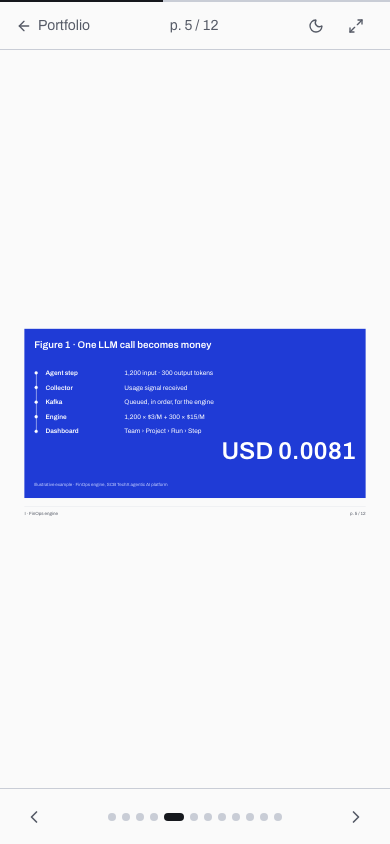
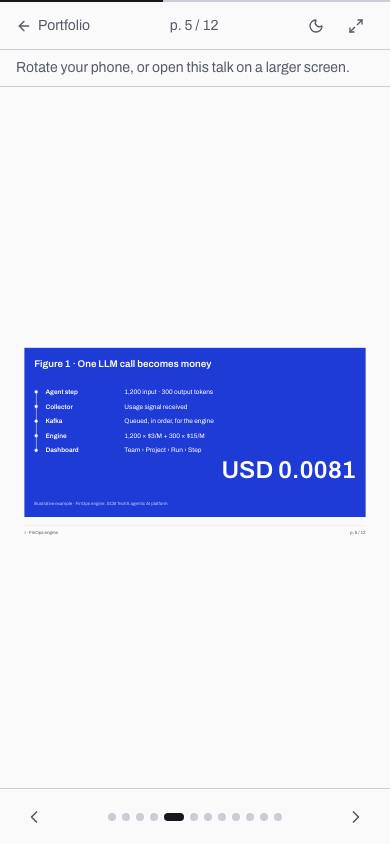
feat: deck coda, reload keeps the slide, phone notice; copy held to the CV
- How I work is a coda: outside chapter III, listed in Contents (p. 11)
- The current slide is written back to ?slide=N
- Portrait phones get a one-line notice to rotate or use a larger screen
- Slide 10: built to replace Excel and MS Forms (no adoption claim)
- Slide 8: legacy gateway, not the vendor name
- Figure 2 (home + deck): migration continuing after handover

Changed region(s): [[0.0615, 0.3697, 0.9538, 0.5545], [0.0615, 0.5237, 0.9538, 0.6161], [0.0308, 0.0616, 0.8923, 0.0924]]

diff --git a/src/components/present/outline.ts b/src/components/present/outline.ts
@@ -1,6 +1,7 @@
 // Slide order for /present. The contents page and every folio derive from it.
 
-export type SlideKind = 'title' | 'contents' | 'divider' | 'content' | 'close';
+// A coda sums up every chapter, so like Close it stands outside them.
+export type SlideKind = 'title' | 'contents' | 'divider' | 'content' | 'coda' | 'close';
 
 interface OutlineEntry {
   id: string;
@@ -21,7 +22,7 @@ export const OUTLINE = [
   { id: 'gateway-fix', kind: 'content', title: 'From an appliance to a service' },
   { id: 'earlier', kind: 'divider', chapter: 'III', title: 'Earlier systems' },
   { id: 'earlier-two-up', kind: 'content', title: 'Two systems I built before FinOps' },
-  { id: 'how-i-work', kind: 'content', title: 'How I work' },
+  { id: 'how-i-work', kind: 'coda', title: 'How I work' },
   { id: 'close', kind: 'close', title: 'Questions?' },
 ] as const satisfies readonly OutlineEntry[];
 
@@ -35,22 +36,23 @@ export function pageOf(id: string): number {
   return index + 1;
 }
 
-// The divider that owns a slide. Title, contents and close sit outside chapters.
+// The divider that owns a slide. Title, contents, coda and close sit outside chapters.
 export function chapterOf(id: string): { numeral: string; title: string } | null {
   const page = pageOf(id);
   for (let i = page - 1; i >= 0; i--) {
     const s: OutlineEntry = OUTLINE[i];
     if (s.kind === 'divider' && s.chapter) return { numeral: s.chapter, title: s.title };
-    if (s.kind === 'title' || s.kind === 'contents' || s.kind === 'close') return null;
+    if (s.kind !== 'divider' && s.kind !== 'content') return null;
   }
   return null;
 }
 
 export function contents(): { numeral: string; title: string; page: number }[] {
-  const chapters = OUTLINE.filter((s: OutlineEntry) => s.kind === 'divider').map((s: OutlineEntry) => ({
-    numeral: s.chapter ?? '',
-    title: s.title,
-    page: pageOf(s.id),
-  }));
-  return [...chapters, { numeral: '', title: 'Close', page: pageOf('close') }];
+  return OUTLINE.filter((s: OutlineEntry) => s.kind === 'divider' || s.kind === 'coda' || s.kind === 'close').map(
+    (s: OutlineEntry) => ({
+      numeral: s.chapter ?? '',
+      title: s.kind === 'close' ? 'Close' : s.title,
+      page: pageOf(s.id),
+    }),
+  );
 }

diff --git a/src/components/present/slides.tsx b/src/components/present/slides.tsx
@@ -70,7 +70,7 @@ function ContentsSlide() {
       <Headline>Contents</Headline>
       <ol className="mt-14 border-t border-ink">
         {contents().map((c) => (
-          <li key={c.title} className="grid grid-cols-12 items-baseline gap-x-6 border-b border-rule py-7">
+          <li key={c.title} className="grid grid-cols-12 items-baseline gap-x-6 border-b border-rule py-6">
             <span className="col-span-1 text-[40px] tabular-nums text-muted">{c.numeral}</span>
             <span className="col-span-9 text-[56px] font-semibold tracking-tight">{c.title}</span>
             <span className="col-span-2 text-right text-[40px] tabular-nums">p. {c.page}</span>
@@ -157,7 +157,7 @@ function GatewayFix() {
       <Headline>From an appliance to a service</Headline>
       <div className="mt-10 grid grid-cols-2 gap-x-16">
         <Column
-          title="The pain with CA Layer7"
+          title="The pain with the legacy gateway"
           items={[
             'Licences, not pods: capacity cost money',
             'A proprietary appliance, no GitOps',
@@ -197,7 +197,7 @@ function EarlierTwoUp() {
           title="Enterprise asset platform"
           meta={`${assets.subtitle} · ${assets.dateRange}`}
           items={[
-            'Replaced Excel and MS Forms with one platform for the asset lifecycle',
+            'Built to replace Excel and MS Forms for the asset lifecycle',
             'Four request lifecycles, approval chains per role and step',
             'Six roles on Azure AD single sign-on; Excel and CSV reports',
           ]}

diff --git a/src/components/Present.tsx b/src/components/Present.tsx
@@ -22,6 +22,12 @@ export default function Present() {
   const [scale, setScale] = useState(1);
   const stageRef = useRef<HTMLDivElement>(null);
 
+  // Keep the place across a reload mid-talk.
+  useEffect(() => {
+    const { pathname, hash } = window.location;
+    window.history.replaceState(window.history.state, '', `${pathname}?slide=${slide + 1}${hash}`);
+  }, [slide]);
+
   const go = useCallback((index: number) => setSlide(Math.max(0, Math.min(TOTAL - 1, index))), []);
   const next = useCallback(() => setSlide((s) => Math.min(TOTAL - 1, s + 1)), []);
   const prev = useCallback(() => setSlide((s) => Math.max(0, s - 1)), []);
@@ -95,6 +101,10 @@ export default function Present() {
           </button>
         </div>
       </header>
+
+      <p className="hidden shrink-0 border-b border-rule px-4 py-2 text-sm text-muted max-sm:portrait:block">
+        Rotate your phone, or open this talk on a larger screen.
+      </p>
 
       {/* Click anywhere on the stage to advance. */}
       <main ref={stageRef} className="relative flex flex-1 cursor-pointer items-center justify-center overflow-hidden" onClick={next}>

diff --git a/src/data/portfolio-data.ts b/src/data/portfolio-data.ts
@@ -317,7 +317,7 @@ export const projects: Project[] = [
       {
         name: "Backend services",
         nodes: [
-          { label: "30+ services", sublabel: "migrating behind the new gateway in phases" },
+          { label: "30+ services", sublabel: "migration continuing after handover" },
         ],
       },
       {

diff --git a/DESIGN.md b/DESIGN.md
@@ -298,13 +298,13 @@ A chapter's architecture as a numbered table: a 14px muted run-in caption ("**Fi
 A section with a hairline top rule. On the left are the title, a muted tabular metadata line joined by middle dots, and the technology list. On the right are the body-lead description, an optional layer figure, and a "Read the full chapter" text toggle that reveals the highlights as a disc list within the measure.
 
 ### Slide Folio
-The foot of every slide: a 1px hairline, then a 22px muted tabular line with the chapter at the left ("I · FinOps engine") and the page at the right ("p. 5 / 12"). Slides outside a chapter (contents, close) carry the name instead; the title slide carries the talk and date. On a divider the rule turns on-field-muted and the left side carries the chapter's dates. The chapter and page are derived from the slide order, never typed.
+The foot of every slide: a 1px hairline, then a 22px muted tabular line with the chapter at the left ("I · FinOps engine") and the page at the right ("p. 5 / 12"). Slides outside a chapter (contents, the "How I work" coda, close) carry the name instead; the title slide carries the talk and date. On a divider the rule turns on-field-muted and the left side carries the chapter's dates. The chapter and page are derived from the slide order, never typed.
 
 ### Chapter Divider
 A whole slide filled with the ultramarine field: the chapter numeral at 220px top left, the chapter title (112px) and a 44px subtitle at the foot of the type area, then the folio. Three dividers, one per chapter; with the Figure 1 slide they are the only field pages in the deck.
 
 ### Contents Page
-A content slide listing the chapters and the close under an ink rule, one hairline row each: muted numeral, 56px semibold title, and the page number on the right in tabular figures. Page numbers come from the slide order, never typed.
+A content slide listing the chapters, the "How I work" coda and the close under an ink rule, one hairline row each: muted numeral, 56px semibold title, and the page number on the right in tabular figures. Page numbers come from the slide order, never typed.
 
 ### Figure Slide Variants
 - **Figure 1, slide:** the same ultramarine panel set inside the slide margins, showing the final frame only (no clock, no marker). Caption at 48px, stations at 32px on a 3/9 split with 16px dots, the landed amount right-aligned at 120px, the illustrative note at 22px.
